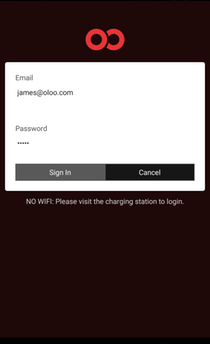
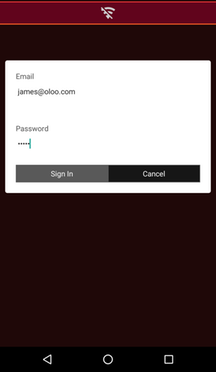
figuring out github

Changed region(s): [[0.0, 0.0, 1.0, 0.2907], [0.0, 0.3198, 1.0, 0.6105], [0.0, 0.9302, 1.0, 0.9884]]

diff --git a/index.html b/index.html
@@ -522,8 +522,8 @@
                 </div>
                 <div class="slider filtering scrollpoint sp-effect5" >
                     <div class="one">
-                        <img src="assets/img/freeze/screens/login_no_wifi.png" alt="">
-                        <h4>Login</h4>
+                        <img src="assets/img/freeze/screens/login_wifi.png" alt="">
+                        <h4>Login<h6>(wifi)</h6></h4>
                     </div>
                     <div class="two">
                         <img src="assets/img/freeze/screens/qr_code.png" alt="">
@@ -534,20 +534,20 @@
                         <h4>Choose Activity</h4>
                     </div>
                     <div class="one">
-                        <img src="assets/img/freeze/screens/activity.png" alt="">
-                        <h4>Sign Up</h4>
+                        <img src="assets/img/freeze/screens/logout.png" alt="">
+                        <h4>Logout<h6>(in compliance)</h6></h4>
                     </div>
                     <div class="one">
-                        <img src="assets/img/freeze/screens/calendar.jpg" alt="">
-                        <h4>Event Calendar</h4>
+                        <img src="assets/img/freeze/screens/login_no_wifi.png" alt="">
+                        <h4>Login <h6>(no wifi)</h6></h4>
+                    </div>
+                    <div class="one">
+                        <img src="assets/img/freeze/screens/logout_no_wifi.png" alt="">
+                        <h4>Logout<h6>(no wifi)</h6></h4>
                     </div>
                     <div class="two">
-                        <img src="assets/img/freeze/screens/options.jpg" alt="">
-                        <h4>Some Options</h4>
-                    </div>
-                    <div class="two">
-                        <img src="assets/img/freeze/screens/sales.jpg" alt="">
-                        <h4>Sales Analysis</h4>
+                        <img src="assets/img/freeze/screens/notification.png" alt="">
+                        <h4>Push Notifications</h4>
                     </div>
                 </div>
             </div>
@@ -556,7 +556,7 @@
         <section id="reviews">
                 <div class="container">
                     <div class="section-heading inverse scrollpoint sp-effect3">
-                        <h1>Thoughts</h1>
+                        <h1>Tutorial</h1>
                         <div class="divider"></div>
                         <p></p>
                     </div>
@@ -567,17 +567,18 @@
                                     <div class="row">
                                         <div class="col-md-2">
                                             <div class="review-person">
-                                                <img src="assets/img/freeze/Slides/reviewFire.png" alt="" class="img-responsive">
+                                                <img src="assets/img/freeze/Slides/review1.png" alt="" class="img-responsive">
                                             </div>
                                         </div>
                                         <div class="col-md-10">
                                             <div class="review-comment">
-                                                <h3>adjacent possible</h3>
-                                                <h5>noun</h5>
+                                                <h3>Login</h3>
+                                                <h5></h5>
                                                 <p>
-                                                    A kind of shadow future, hovering on the edges of the present
+                                                    <!-- A kind of shadow future, hovering on the edges of the present
                                                     state of things, a map of all the ways in which the present can
-                                                    reinvent itself.
+                                                    reinvent itself. -->
+                                                    Grab a phone from the charging station and login (WIFI needed). The charging station may be the only wifi access point in your facility. Successfully login and the app navigates to the QR Code scanner.
                                                 </p>
                                             </div>
                                         </div>
@@ -587,13 +588,13 @@
                                     <div class="row">
                                         <div class="col-md-2">
                                             <div class="review-person">
-                                                <img src="assets/img/freeze/Slides/reviewThoughts.png" alt="" class="img-responsive">
+                                                <img src="assets/img/freeze/Slides/review2.png" alt="" class="img-responsive">
                                             </div>
                                         </div>
                                         <div class="col-md-10">
                                             <div class="review-comment">
-                                                <h3>enabling technology</h3>
-                                                <h5>noun</h5>
+                                                <h3>Work</h3>
+                                                <h5></h5>
                                                 <p>
                                                     An innovation that can be applied to drive radical change in the capabilities of a user or culture. Enabling technologies are characterized by rapid subsequent derivative technologies, often in diverse fields.
                                                 </p>
@@ -605,7 +606,24 @@
                                     <div class="row">
                                         <div class="col-md-2">
                                             <div class="review-person">
-                                                <img src="assets/img/freeze/Slides/reviewMortarboard.png" alt="" class="img-responsive">
+                                                <img src="assets/img/freeze/Slides/review3.png" alt="" class="img-responsive">
+                                            </div>
+                                        </div>
+                                        <div class="col-md-10">
+                                            <div class="review-comment">
+                                                <h3>2017 MIT Commencement</h3>
+                                                <p>
+                                                    Technology is capable of doing great things. But it doesn’t want to do great things. It doesn’t want anything. That part takes all of us. It takes our values and our commitment to our families and our neighbors and our communities. Our love of beauty and belief that all of our faiths are interconnected. Our decency. Our kindness. <em>-Tim Cook</em>
+                                                </p>
+                                            </div>
+                                        </div>
+                                    </div>
+                                </div>
+                                <div class="review rollitin">
+                                    <div class="row">
+                                        <div class="col-md-2">
+                                            <div class="review-person">
+                                                <img src="assets/img/freeze/Slides/review4.png" alt="" class="img-responsive">
                                             </div>
                                         </div>
                                         <div class="col-md-10">
